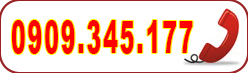
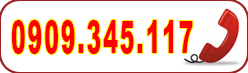
ok

Changed region(s): [[0.6492, 0.2466, 0.7339, 0.7397]]

diff --git a/local/resources/views/frontend/master.blade.php b/local/resources/views/frontend/master.blade.php
@@ -54,7 +54,7 @@
     <div class="phone_animation">
         <div class="phone_animation_circle"></div>
         <div class="phone_animation_circle_fill"></div>
-        <a href="tel:0909345177" class="phone_animation_circle_fill_img"><i class="fa fa-phone" aria-hidden="true"></i></a>
+        <a href="tel:0909345117" class="phone_animation_circle_fill_img"><i class="fa fa-phone" aria-hidden="true"></i></a>
     </div>
 </div>
 <script type="text/javascript">
